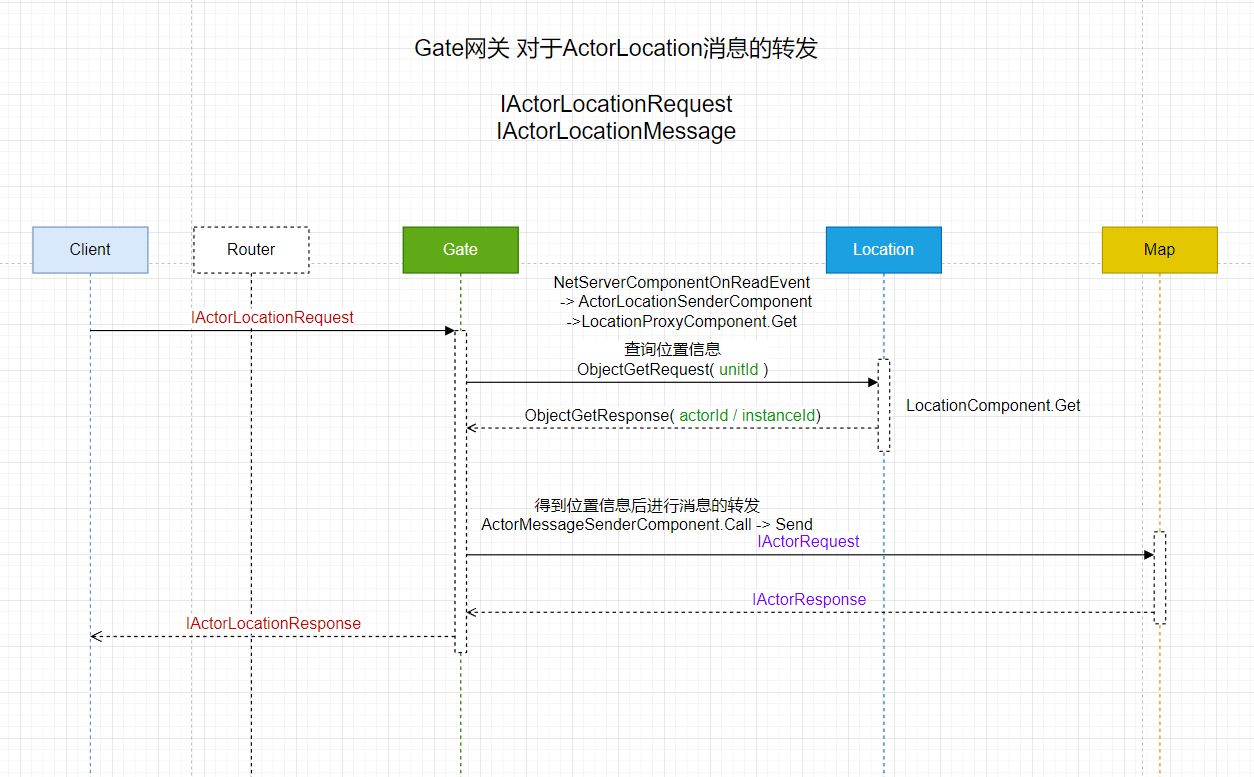
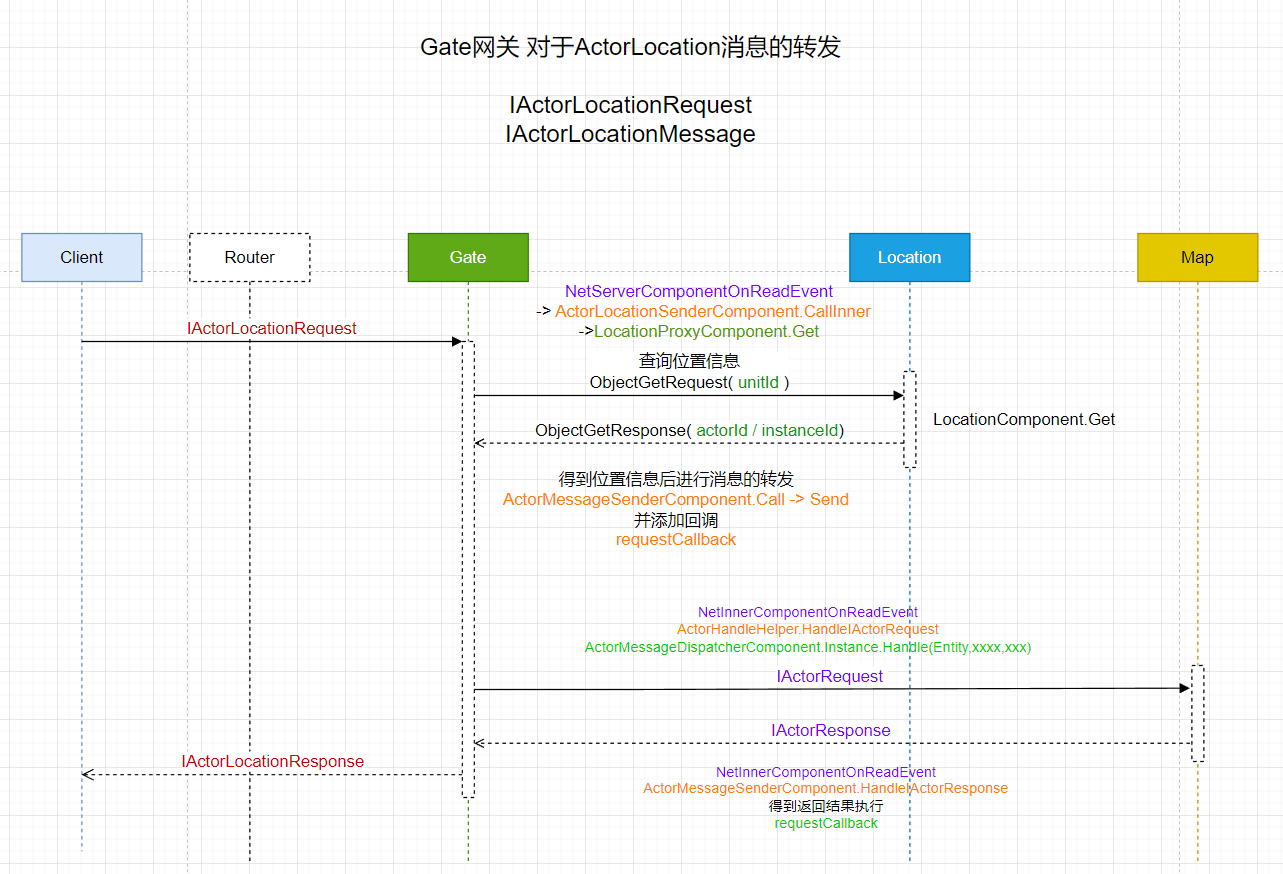
1.ET笔记补全

diff --git a/coding/ET框架/熊猫教程笔记/网络游戏架构设计_1.md b/coding/ET框架/熊猫教程笔记/网络游戏架构设计_1.md
@@ -61,7 +61,23 @@ public class TimerComponent: Singleton<TimerComponent>, ISingletonUpdate{}
 * 好释放, 相反的顺序释放 因为使用了栈结构`Game.Stack<ISingleton> singletons`
 * 类似组件的使用方式
 
-相关接口
+### 相关接口
+
+### ISingletonAwake
+
+用于实现初始化逻辑
+
+### ISingletonUpdate
+
+固定每帧执行逻辑
+
+### ISingletonLateUpdate
+
+单例固定在业务每帧 update 之后执行逻辑
+
+### IDisposable
+
+销毁逻辑
 
 ```c#
 public interface ISingleton: IDisposable
@@ -134,17 +150,48 @@ public interface ISingleton: IDisposable
 
 ## ETTask源码分析
 
+1. `MainThreadSynchronizationContext` 主线程驱动入口, 其中包含 `ThreadSynchronizationContext` 线程同步队列
+
+   ```c#
+   public MainThreadSynchronizationContext()
+   {
+       SynchronizationContext.SetSynchronizationContext(this.threadSynchronizationContext);
+   }
+   ```
+
+   <big>这样设置 `SynchronizationContext` 同步上下文以后, 其他的IO异步操作完成后, 才能正确回调到主线程中</big>
+1. 定义 `Task-Like` 类任务 类型
+
+    <img src="../img/ET7_Await_1.png" width="70%">
 1. `ETTask` -> `ETAsyncTaskMethodBuilder` 是一个 `struct` 它内部包含了一个 `ETTask`
+
+    ```c#
+    [AsyncMethodBuilder(typeof (ETAsyncTaskMethodBuilder))]
+    public class ETTask: ICriticalNotifyCompletion
+    {XXX}
+    ```
+
 1. `ETVoid` -> `ETAsyncVoidMethodBuilder` 无返回值, 不能直接使用
+
+    ```c#
+    [AsyncMethodBuilder(typeof (AsyncETVoidMethodBuilder))]
+    internal struct ETVoid: ICriticalNotifyCompletion
+    {XXX}
+    ```
+
 1. `ETTaskCompleted` -> `ETAsyncTaskCompletedMethodBuilder` 默认直接返回完成
 
-```c#
-public static ETAsyncTaskMethodBuilder Create()
-{
-    ETAsyncTaskMethodBuilder builder = new ETAsyncTaskMethodBuilder() { tcs = ETTask.Create(true) };
-    return builder;
-}
-```
+    ```c#
+    [AsyncMethodBuilder(typeof (AsyncETTaskCompletedMethodBuilder))]
+    public struct ETTaskCompleted: ICriticalNotifyCompletion
+    {XXX}
+    
+    public static ETAsyncTaskMethodBuilder Create()
+    {
+        ETAsyncTaskMethodBuilder builder = new ETAsyncTaskMethodBuilder() { tcs = ETTask.Create(true) };
+        return builder;
+    }
+    ```
 
 ### `ETAsyncTaskMethodBuilder` 调用状态机 `MoveNext`
 

diff --git a/coding/ET框架/熊猫教程笔记/网络游戏架构设计_5.md b/coding/ET框架/熊猫教程笔记/网络游戏架构设计_5.md
@@ -77,7 +77,7 @@
 
 消息处理器标签: `ActorMessageHandler`
 
-实现消息处理器: `AMActorLocationRpcHandler`
+实现消息处理器: `AMActorLocationRpcHandler` ; `AMActorLocationHandler`
 
 对应协议RPC请求响应接口: `IActorLocationRequest` `IActorLocationResponse`
 
@@ -500,6 +500,8 @@ public int Process; // 18bit
 public uint Value;  // 18bit
 ```
 
+### ActorLocation 节点间通信流程图
+
 `ActorLocation` 中 unit 的场景切换/跳转
 
 <img src="../img/ET7_ActorLocation_1.png" width="70%"/>
@@ -507,6 +509,32 @@ public uint Value;  // 18bit
 `ActorLocation` 转发消息
 
 <img src="../img/ET7_ActorLocation_2.png" width="70%"/>
+
+涉及到的代码:
+
+```C#
+//Client -> Gate 查询Entity所在节点
+NetServerComponentOnReadEvent
+  -> ActorLocationSenderComponent.CallInner
+    -> LocationProxyComponent.Get
+
+      得到位置信息后进行消息的转发
+      ActorMessageSenderComponent.Call -> Send
+      并添加回调
+      requestCallback
+
+//Gate -> Map 转发 ActorLocation 消息
+NetInnerComponentOnReadEvent
+  -> ActorHandleHelper.HandleIActorRequest
+    -> ActorMessageDispatcherComponent.Instance.Handle(Entity,xxxx,xxx)
+
+
+//Map -> Gate 响应消息填充回调
+NetInnerComponentOnReadEvent
+  -> ActorMessageSenderComponent.HandleIActorResponse
+    得到返回结果执行
+    requestCallback
+```
 
 ### LocationComponent 位置中心服务
 

diff --git a/coding/ET框架/学习笔记.md b/coding/ET框架/学习笔记.md
@@ -247,7 +247,7 @@ NLog 支持的日志级别:
   a. ClientServer模式下要导出服务端Excel给客户端使用。
 1. 默认@cs导出两端（不写也可以）
 
-### Excel 导出工具
+### [Excel 导出工具](https://www.yuque.com/et-xd/docs/wcwbl01gr9wgvmaq)
 
 1. 执行配置导出程序脚本: `ET/Excel/win_startExcelExport.bat`
 1. 在工程内启动导表工具的方式:
